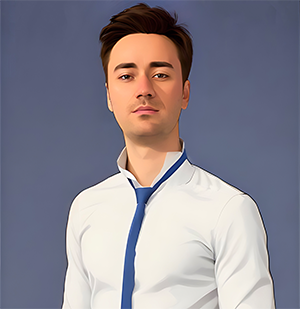
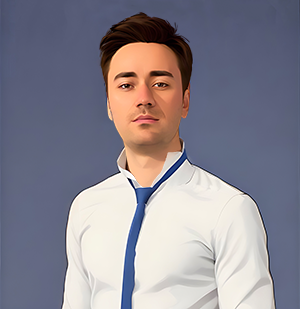
Update picture and small font changes

Changed region(s): [[0.33, 0.0, 0.66, 0.6117]]

diff --git a/templates/index.html b/templates/index.html
@@ -4,6 +4,7 @@
   <meta charset="utf-8">
   <title>Lucian Musat</title>
   <link href="{{ url_for('static', path='/style.css') }}" rel="stylesheet">
+  <link rel="icon" type="image/x-icon" href="{{ url_for('static', path='/favicon.ico') }}">
 </head>
 
 <body>
@@ -86,11 +87,11 @@
 
     <script>
         function redirectToContact() {
-            window.location.href = "/contact";
+            window.location.href = "/";
         }
 
         function redirectToResume() {
-            window.location.href = "/resume";
+            window.location.href = "/";
         }
     </script>
 

diff --git a/static/style.css b/static/style.css
@@ -97,6 +97,14 @@
     margin-right: 20px;
 }
 
+.line2 h2:hover {
+    color: #616060;
+}
+
+.line3 h1:hover {
+    color: #4967a1;
+}
+
 .line3 h1 {
     font-size: 46px;
     font-weight: bold;
